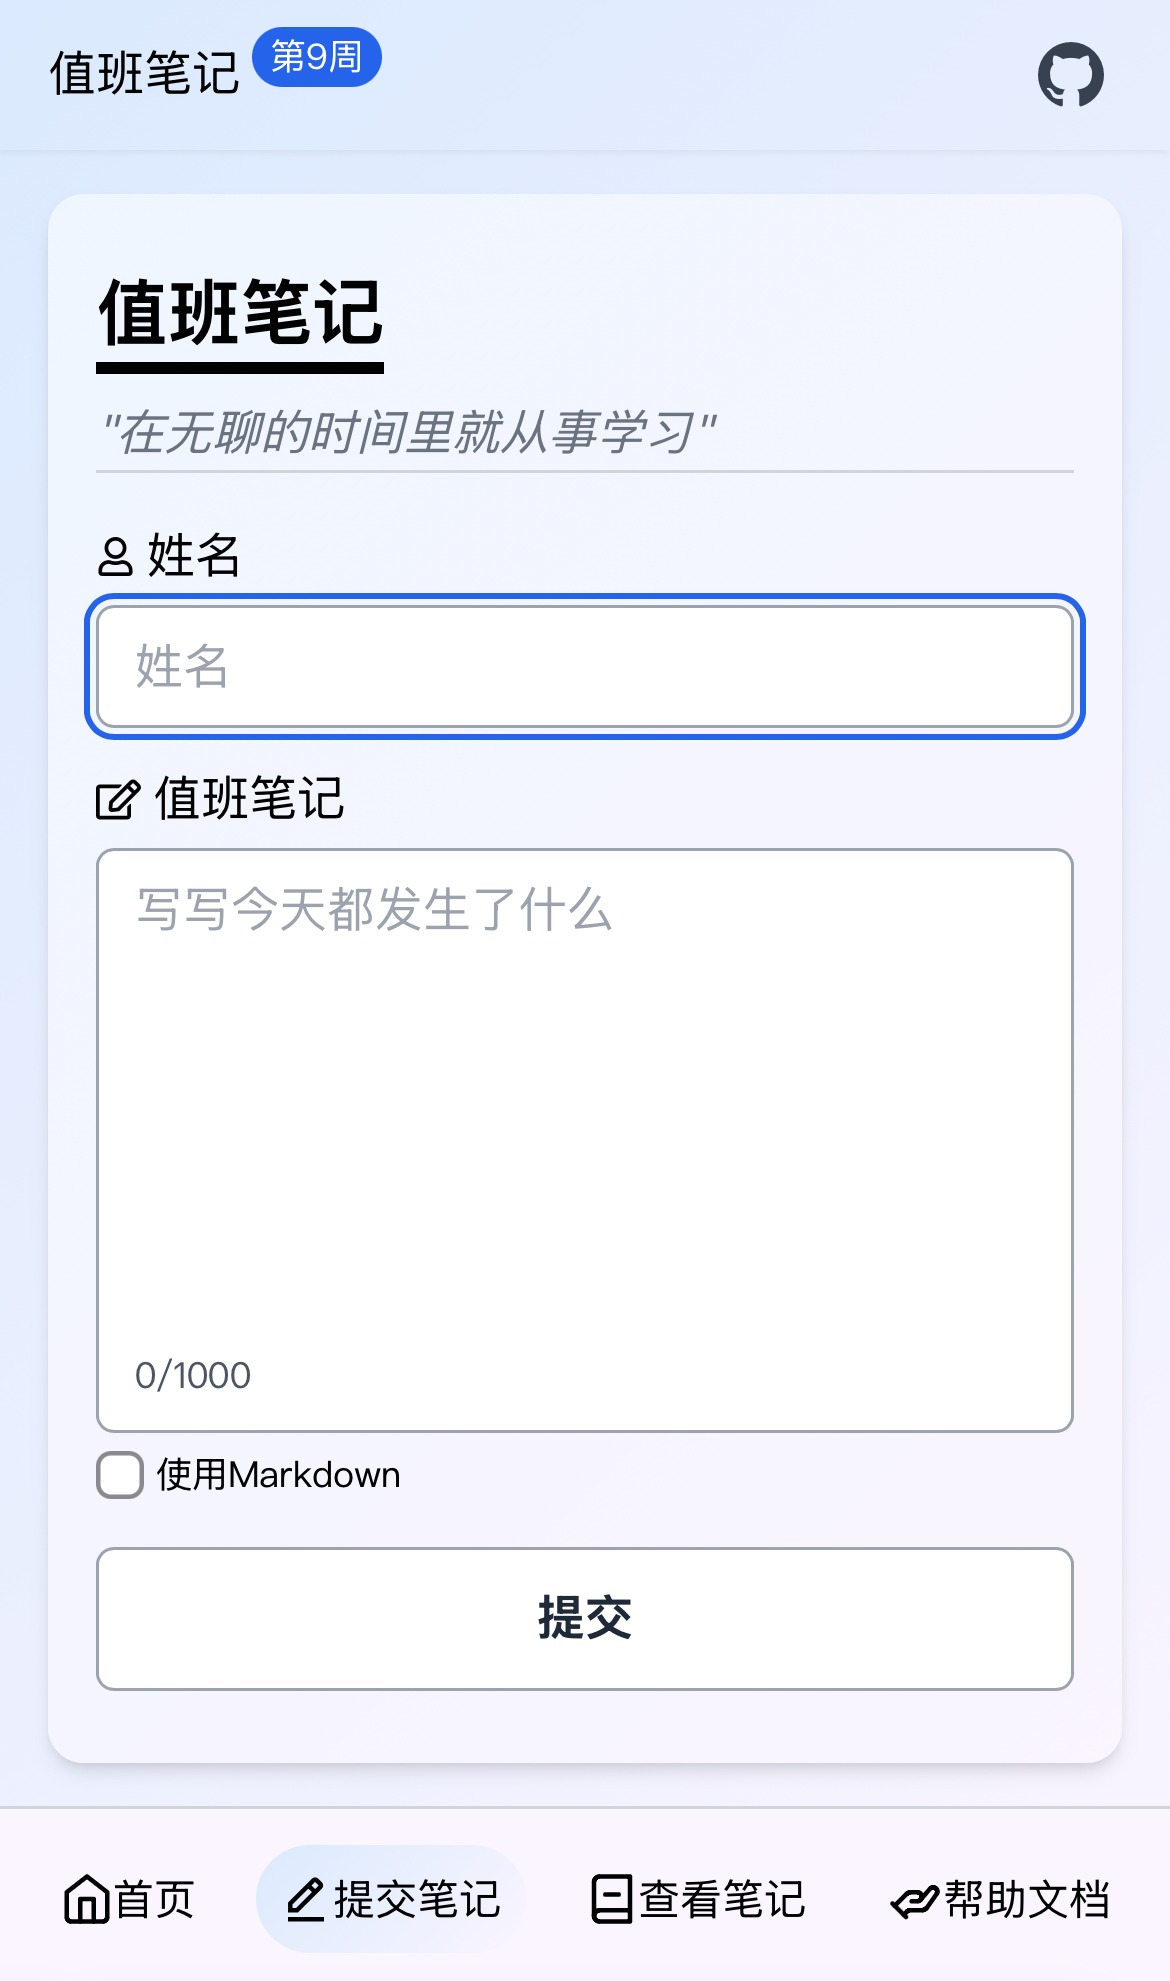
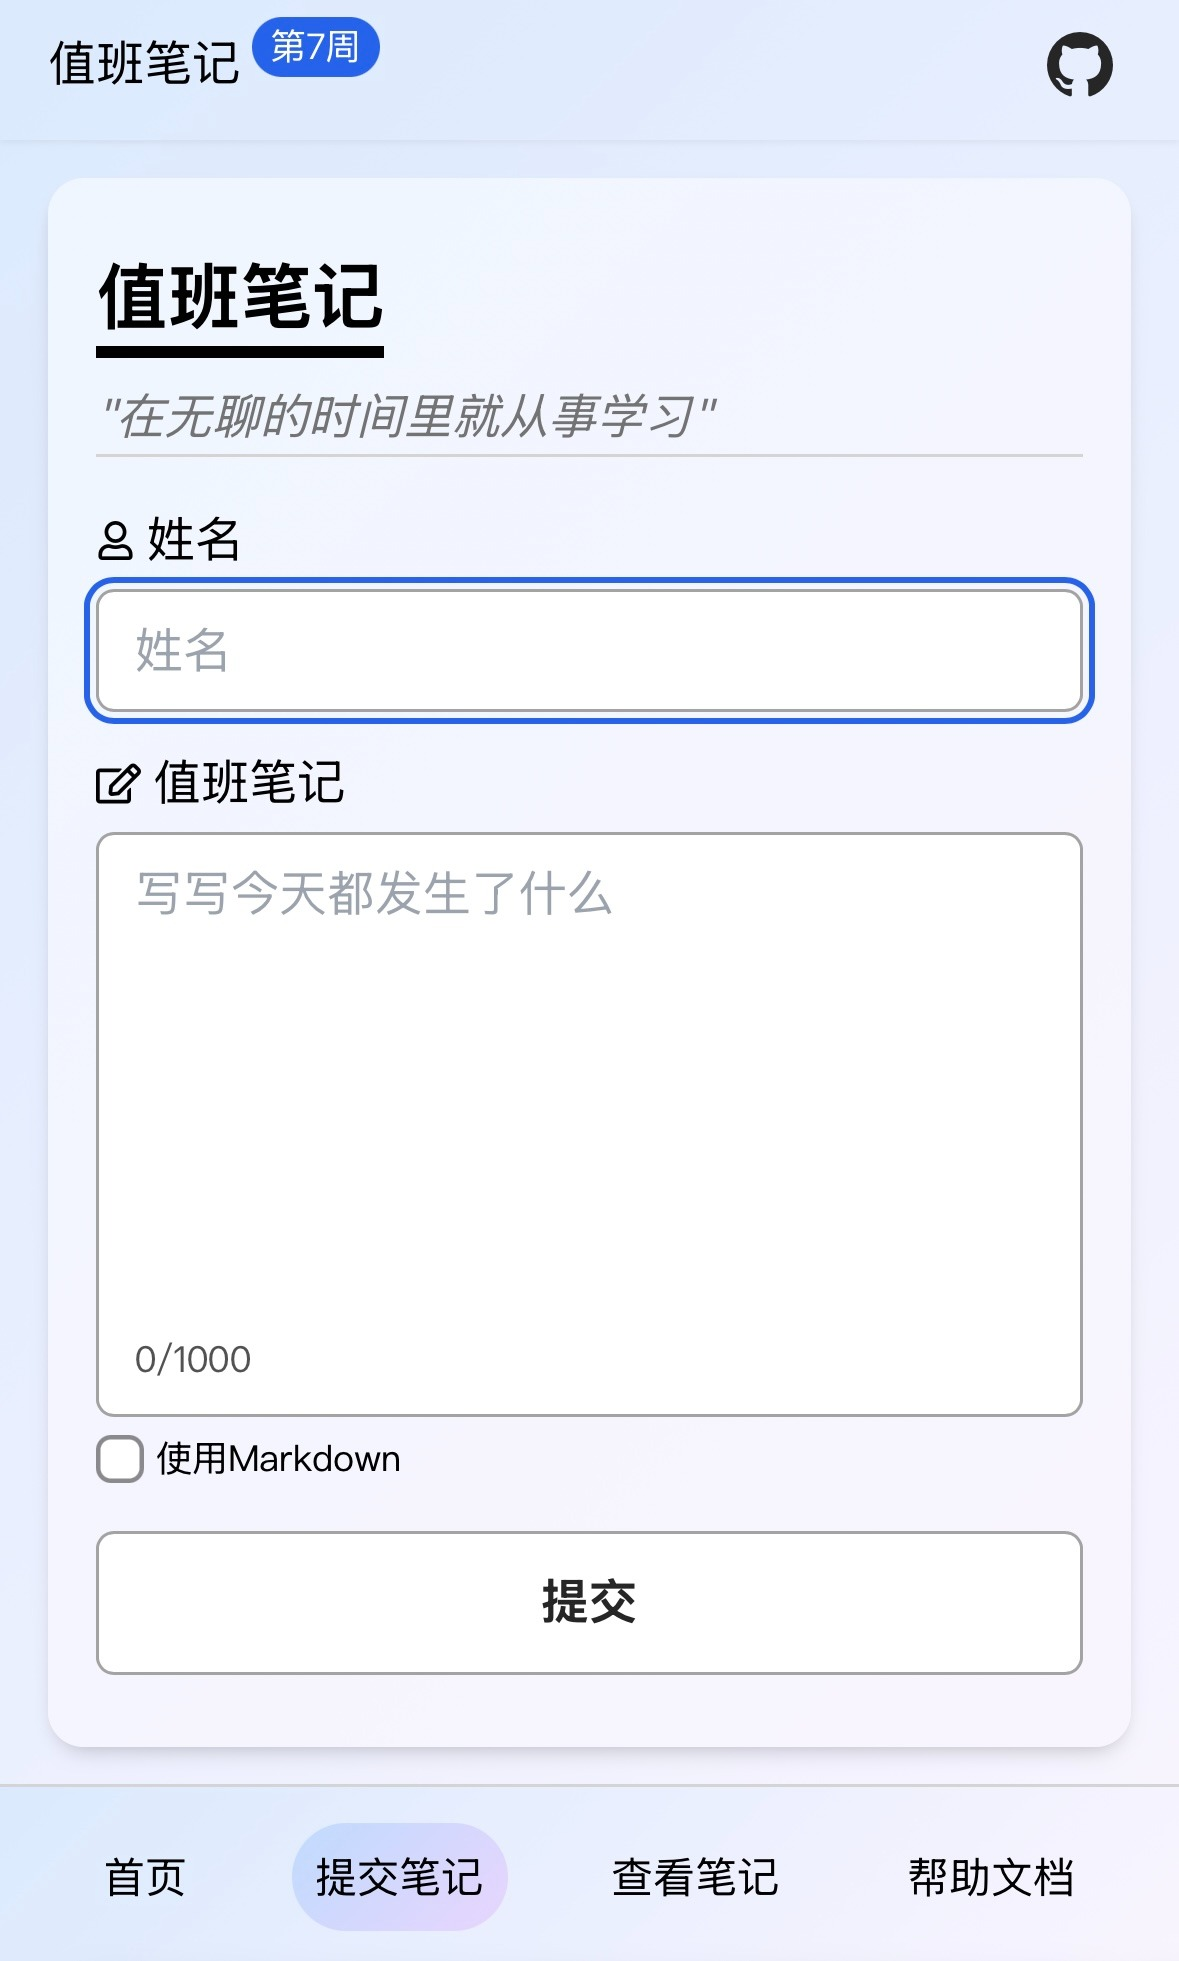
feat: add help document link to navbar and update Markdown example

diff --git a/src/components/Navbar/config.ts b/src/components/Navbar/config.ts
@@ -1,11 +1,12 @@
 import { BiHome } from "react-icons/bi";
 import { BiEditAlt } from "react-icons/bi";
-import { LuBookMinus } from "react-icons/lu";
+import { LuBookMinus, LuHandHelping } from "react-icons/lu";
 
 const links = [
   { name: "首页", link: "/", Icon: BiHome },
   { name: "提交笔记", link: "/form", Icon: BiEditAlt },
-  { name: "查看笔记", link: "/view", Icon: LuBookMinus }
+  { name: "查看笔记", link: "/view", Icon: LuBookMinus },
+  { name: "帮助文档", link: "/help", Icon: LuHandHelping }
 ];
 
 export default links;

diff --git a/src/components/Navbar/BottomNavbar/BottomNavbar.tsx b/src/components/Navbar/BottomNavbar/BottomNavbar.tsx
@@ -17,7 +17,6 @@ export default function BottomNavbar() {
           <li key={link.name}>
             <Link href={link.link} className={style.link}>
               {rootPath === link.link && <motion.div layoutId="active-bottom-link" className={style["active-link"]} />}
-              <link.Icon size={20} />
               <p>{link.name}</p>
             </Link>
           </li>

diff --git a/src/components/MarkdownRenderer/components/Preview/Preview.tsx b/src/components/MarkdownRenderer/components/Preview/Preview.tsx
@@ -1,5 +1,4 @@
 import { BiHide, BiCheck } from "react-icons/bi";
-import { TbArrowBigDownLines } from "react-icons/tb";
 import { VscOpenPreview, VscCopy } from "react-icons/vsc";
 
 import { useEffect, useRef, useState } from "react";
